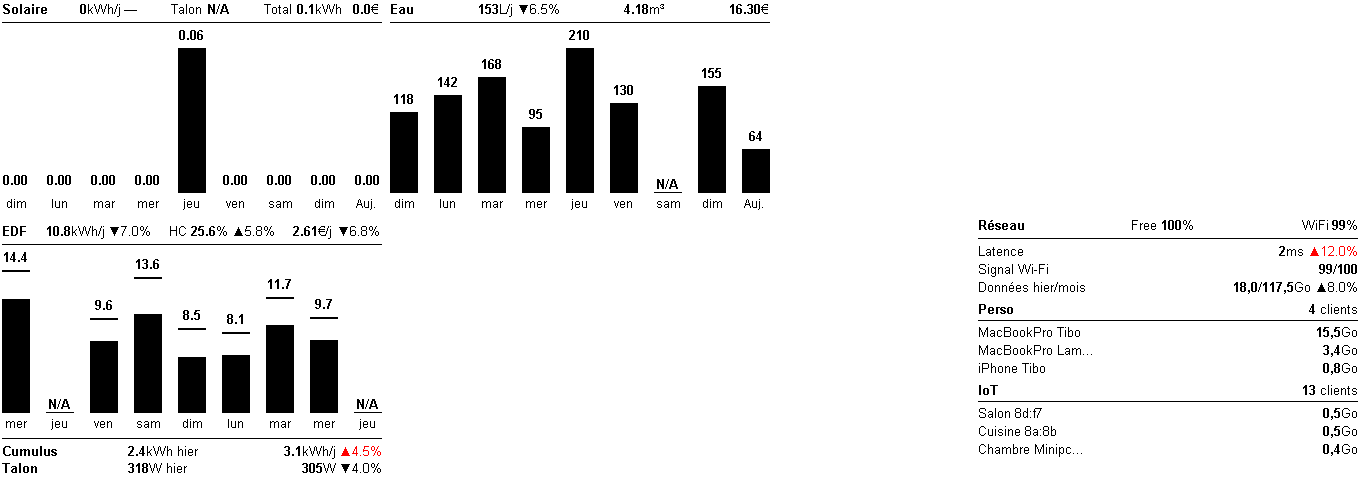
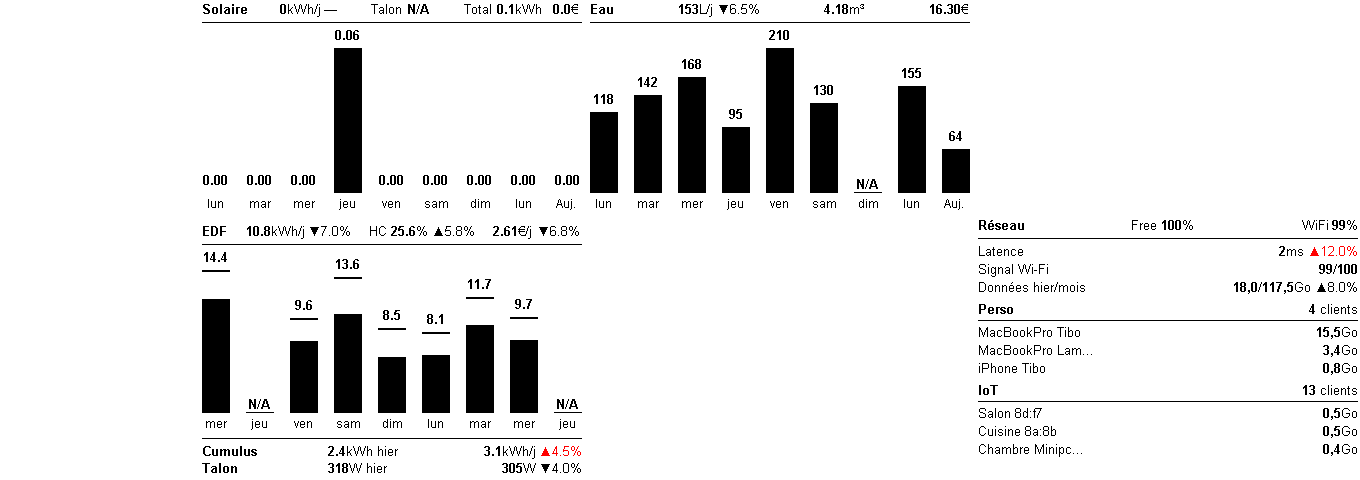
feat(layout): pack the columns to the right, blank space on the left edge
Solar/EDF and Eau columns shift right to butt against the right-anchored
Crypto/Réseau column (8px gaps), so the empty space lands on the far left
instead of between Eau and Crypto.

diff --git a/app/rendering/renderer.py b/app/rendering/renderer.py
@@ -40,6 +40,12 @@ BOTTOM_TOP_GAP = 8  # gap between the chart's day labels and the top separator
 BOTTOM_TEXT_GAP = 6  # first row below the separator
 SOLAR_HEIGHT = HEIGHT // 2 - 24  # top (solar) chart height; EDF gets the rest (a bit taller)
 
+COL_GAP = 8  # écart horizontal entre les colonnes packées (Solaire/EDF, Eau, Crypto)
+# Les trois colonnes (largeur de référence MAX_DAYS) sont collées au bord droit,
+# l'espace libre est donc reporté tout à gauche au lieu d'être coincé entre Eau et Crypto.
+PANEL_LEFT = WIDTH - CHART_LEFT - 3 * (MAX_DAYS * (BAR_WIDTH + BAR_GAP) - BAR_GAP) - 2 * COL_GAP
+# = 1360 - 2 - 3*380 - 16 = 202
+
 
 def _bottom_table_height(n_rows: int) -> int:
     """Height of the bottom strip reserved for an n-row table (0 if empty)."""
@@ -287,7 +293,7 @@ def _draw_water_chart(draw, fonts, water_days, water_stats, region_top, region_b
     banner_width = MAX_DAYS * (BAR_WIDTH + BAR_GAP) - BAR_GAP
     # Butt up against the Solar chart (which hugs the left edge for banner_width)
     # with a small gap, leaving the right column free for the Crypto panel.
-    region_left = CHART_LEFT + banner_width + 8
+    region_left = PANEL_LEFT + banner_width + COL_GAP
 
     # Stats banner anchored at the top of the region (same look as chart titles).
     stats_top = region_top + CHART_TOP
@@ -366,7 +372,7 @@ def _draw_bottom_table(draw, fonts, rows, bottom_h) -> None:
     separator line sits above the rows, dividing them from the chart's day labels
     (no surrounding box)."""
     width = MAX_DAYS * (BAR_WIDTH + BAR_GAP) - BAR_GAP
-    x = CHART_LEFT
+    x = PANEL_LEFT
     line_y = HEIGHT - bottom_h + BOTTOM_TOP_GAP
     y0 = line_y + BOTTOM_TEXT_GAP
     col_w = width // 3
@@ -529,7 +535,7 @@ def _draw_chart(draw, fonts, days, stats, region_top, region_height, mode):
 
     # --- Bars ---
     for i, d in enumerate(days):
-        cx = CHART_LEFT + i * col_width
+        cx = PANEL_LEFT + i * col_width
         label_text = "Auj." if d.get("today") else d.get("day", "").lower()
 
         lbox = draw.textbbox((0, 0), label_text, font=font_label)
@@ -575,7 +581,7 @@ def _draw_chart(draw, fonts, days, stats, region_top, region_height, mode):
     if stats:
         items = _build_production_items(stats) if mode == "production" else _build_consumption_items(stats)
         if items:
-            _draw_stats_bar(draw, fonts, items, CHART_LEFT, stats_top, banner_width, separator_y)
+            _draw_stats_bar(draw, fonts, items, PANEL_LEFT, stats_top, banner_width, separator_y)
 
 
 # Segment = (text, font_key, color). font_key is "bold" (values) or "regular"
